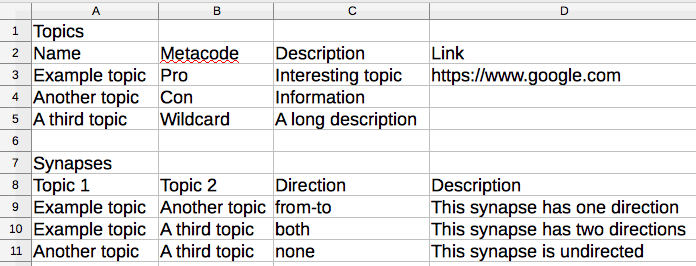
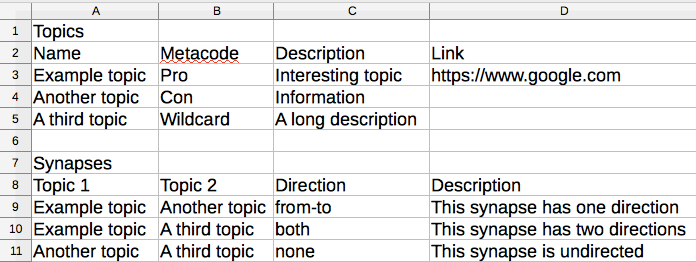
look and feel updates

Changed region(s): [[0.0, 0.0305, 1.0, 1.0]]

diff --git a/frontend/src/components/ImportDialogBox.js b/frontend/src/components/ImportDialogBox.js
@@ -41,7 +41,7 @@ class ImportDialogBox extends Component {
         <h3>IMPORT</h3>
         <p>To upload a file, drop it here:</p>
         <Dropzone onDropAccepted={this.handleFile}
-          className="import-blue-button fileupload"
+          className="fileupload"
         >
           Drop files here!
         </Dropzone>
@@ -56,7 +56,7 @@ class ImportDialogBox extends Component {
             The file should be in comma-separated format (when you save, change the
             filetype from .xls to .csv).
           </p>
-          <img src={this.props.exampleImageUrl} style={{ maxWidth: '75%', float: 'right', margin: '1em' }}/>
+          <img src={this.props.exampleImageUrl} style={{ width: '100%' }} />
           <p style={{ marginTop: '1em' }}>You can choose which columns to include in your data. Topics must have a name field. Synapses must have Topic 1 and Topic 2.</p>
           <p>&nbsp;</p>
           <p> * There are many valid import formats. Try exporting a map to see what columns you can include in your import data. You can also copy-paste from Excel to import, or import JSON.</p>
